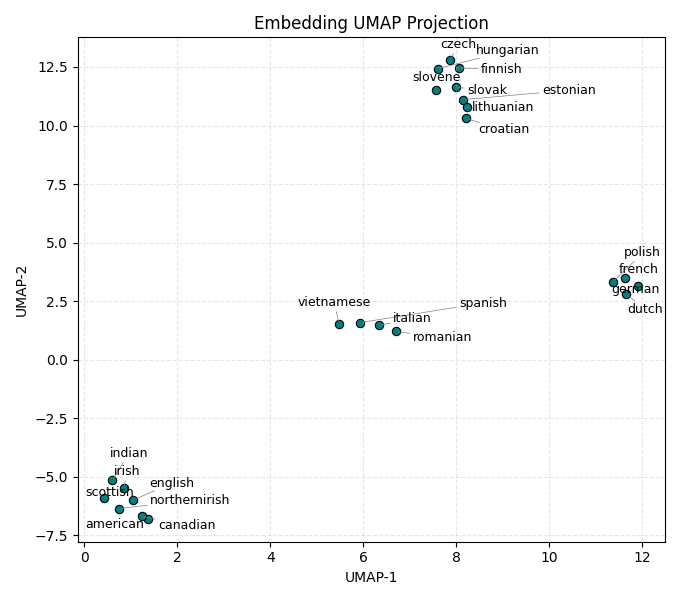
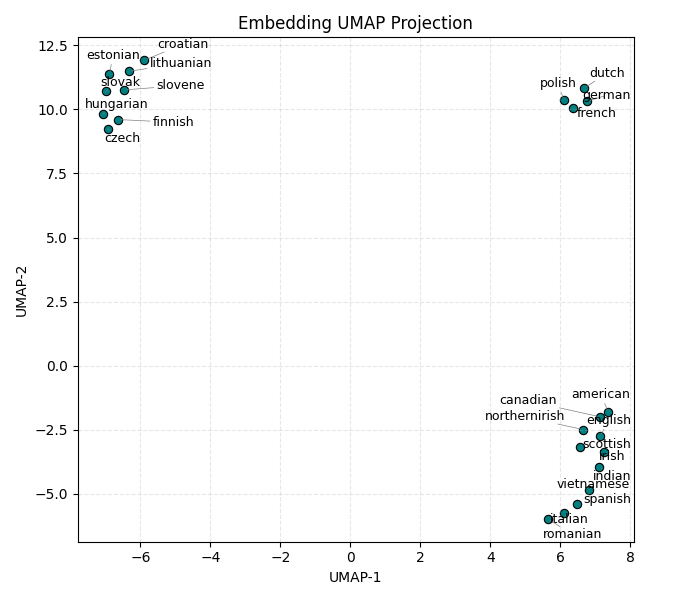
update whisper accent post with detailed performance metrics and improved clarity in embedding analysis

diff --git a/_projects/whisper-accent.md b/_projects/whisper-accent.md
@@ -85,38 +85,38 @@ Improvements are observed across all 23 accent classes. The classifier achieves 
 <div class="row justify-content-center">
   <div class="col-sm-6" markdown="1">
 
-| Accent         | WER ↓ | Accent Acc. ↑ |  n  |
-| :------------- | :---: | :-----------: | :-: |
-| English        | 5.2%  |     95.7%     | 442 |
-| American       | 1.2%  |     97.7%     | 263 |
-| Scottish       | 6.9%  |     94.9%     | 235 |
-| Irish          | 9.7%  |     97.4%     | 152 |
-| Canadian       | 0.8%  |    100.0%     | 90  |
-| Northern Irish | 2.8%  |     94.5%     | 73  |
-| Indian         | 61.4% |    100.0%     | 51  |
-| Spanish        | 14.8% |     95.7%     | 46  |
-| Dutch          | 17.2% |    100.0%     | 35  |
-| Polish         | 14.8% |     96.8%     | 31  |
-| Italian        | 8.6%  |     86.2%     | 29  |
-| French         | 21.8% |     73.1%     | 26  |
+| Accent         |      WER ↓      | Accent Acc. ↑ |  n  |
+| :------------- | :-------------: | :-----------: | :-: |
+| English        |  5.2% (↓0.3pp)  |     95.7%     | 442 |
+| American       |  1.2% (↓0.4pp)  |     97.7%     | 263 |
+| Scottish       |  6.9% (↓1.2pp)  |     94.9%     | 235 |
+| Irish          |  9.7% (↓2.0pp)  |     97.4%     | 152 |
+| Canadian       |  0.8% (↓1.4pp)  |    100.0%     | 90  |
+| Northern Irish |  2.8% (↓0.2pp)  |     94.5%     | 73  |
+| Indian         | 61.4% (↓0.9pp)  |    100.0%     | 51  |
+| Spanish        | 14.8% (↓4.8pp)  |     95.7%     | 46  |
+| Dutch          | 17.2% (↓18.3pp) |    100.0%     | 35  |
+| Polish         | 14.8% (↓2.6pp)  |     96.8%     | 31  |
+| Italian        |  8.6% (↓8.3pp)  |     86.2%     | 29  |
+| German         | 18.1% (↓11.0pp) |     96.3%     | 27  |
 
   </div>
   <div class="col-sm-6" markdown="1">
 
-| Accent      |   WER ↓   | Accent Acc. ↑ |    n     |
-| :---------- | :-------: | :-----------: | :------: |
-| Romanian    |   14.3%   |     91.3%     |    23    |
-| Estonian    |   12.4%   |    100.0%     |    13    |
-| Vietnamese  |   32.3%   |    100.0%     |    14    |
-| German      |   18.1%   |     96.3%     |    27    |
-| Czech       |   10.1%   |     94.7%     |    19    |
-| Slovak      |   7.3%    |     94.1%     |    17    |
-| Hungarian   |   9.7%    |     83.3%     |    18    |
-| Finnish     |   8.6%    |     81.8%     |    11    |
-| Lithuanian  |   2.7%    |    100.0%     |    2     |
-| Croatian    |   21.8%   |    100.0%     |    2     |
-| Slovene     |   6.1%    |     0.0%      |    1     |
-| **Overall** | **13.4%** |   **95.7%**   | **1620** |
+| Accent      |       WER ↓        | Accent Acc. ↑ |    n     |
+| :---------- | :----------------: | :-----------: | :------: |
+| French      |   21.8% (↓3.2pp)   |     73.1%     |    26    |
+| Romanian    |  14.3% (↓18.6pp)   |     91.3%     |    23    |
+| Czech       |   10.1% (↓6.0pp)   |     94.7%     |    19    |
+| Hungarian   |   9.7% (↓8.8pp)    |     83.3%     |    18    |
+| Slovak      |   7.3% (↓9.5pp)    |     94.1%     |    17    |
+| Vietnamese  |   32.3% (↓3.9pp)   |    100.0%     |    14    |
+| Estonian    |   12.4% (↓6.5pp)   |    100.0%     |    13    |
+| Finnish     |   8.6% (↓5.1pp)    |     81.8%     |    11    |
+| Lithuanian  |   2.7% (↓2.7pp)    |    100.0%     |    2     |
+| Croatian    |  21.8% (↓10.9pp)   |    100.0%     |    2     |
+| Slovene     |   6.1% (↓9.1pp)    |     0.0%      |    1     |
+| **Overall** | **13.4%** (↓4.1pp) |   **95.7%**   | **1620** |
 
   </div>
 </div>
@@ -156,15 +156,15 @@ Random conditioning still outperforms vanilla Whisper (16.6% / 15.1% vs. 17.6% /
   </div>
 </div>
 <div class="caption">
-  Figure 2: Left — cosine similarity matrix of the 23 learned accent embeddings (whisper-accent-medium.en). Right — UMAP projection of the same embeddings. Broad groupings emerge from WER supervision alone, but low-resource accents show clear collapse artifacts.
+  Figure 2: Left — cosine similarity matrix of the 23 learned accent embeddings (whisper-accent-medium.en). Right — UMAP projection of the same embeddings.
 </div>
 
-The cosine similarity heatmap shows a clear block-diagonal structure: native English varieties form the tightest cluster, followed by Central and Western European accents, and a Baltic/Slavic/Finnic group — all emerging from ASR loss alone, without explicit phonological supervision.
+The cosine similarity heatmap reveals three blocks: native English varieties form the tightest cluster reflecting genuine phonological coherence. Western European accents (Dutch, German, French, Polish) and Baltic/Slavic/Finnic accents (Hungarian, Czech, Slovak, etc.) cluster internally with nearly identical similarity, despite phonological distance. This counterintuitive grouping emerges from training data distribution—accents with similar sample sufficiency converge in embedding space regardless of typology.
 
-The UMAP corroborates this, with three well-separated regions. Notable exceptions: Romanian sits in isolation between the main clusters, consistent with its mixed Romance-Slavic typology; Indian and Vietnamese project near the native English region despite their phonological distance, plausibly a data scarcity effect rather than a learned structural similarity.
+The UMAP projection corroborates the three-region structure but reveals critical collapse patterns. Native English varieties occupy a coherent region. Western European and Baltic/Slavic accents project into spatially proximate clusters, confirming their embedding equivalence. Notable failures: Indian and Vietnamese project into the native English region despite phonological distinctness, visible as spatial collapse in UMAP and high cosine similarity to native English. Romanian, by contrast, embeds apart from native English and separates in UMAP, anchored by phonologically similar peers in the Romance/Germanic L2 group. Low-resource accents without peer representation collapse into the majority cluster; those with peers maintain structure.
 
 ---
 
 ## Conclusion
 
-Whisper-Accent shows that phonetically diverse accents can be handled within a single model by conditioning a frozen Whisper decoder on per-accent embeddings via AdaLN, eliminating the need for per-accent adapters. The approach works well for data-rich accents, but the embedding analysis highlights a key limitation: the ASR objective alone cannot induce well-separated embeddings when training data is scarce or accent error profiles are similar. Addressing this will require contrastive embedding objectives and more balanced accent coverage than current datasets provide. Code and pretrained checkpoints are available at [github.com/mavleo96/whisper-accent](https://github.com/mavleo96/whisper-accent).
+Whisper-Accent shows that phonetically diverse accents can be handled within a single model by conditioning a frozen Whisper decoder on per-accent embeddings via AdaLN, eliminating the need for per-accent adapters. The approach works well for data-rich accents, but the embedding analysis highlights a key limitation: low-resource accents fail from phonological isolation, not data scarcity. Indian and Vietnamese achieve perfect classification yet minimal WER improvement, while Romanian with similar sample count achieves substantial improvement due to peer anchoring from Romance/Germanic L2 accents. Addressing this will require contrastive embedding objectives encouraging phonological grouping, combined with adding low-resource accents with shared L1 typology for peer representation. Code and pretrained checkpoints are available at [github.com/mavleo96/whisper-accent](https://github.com/mavleo96/whisper-accent).
